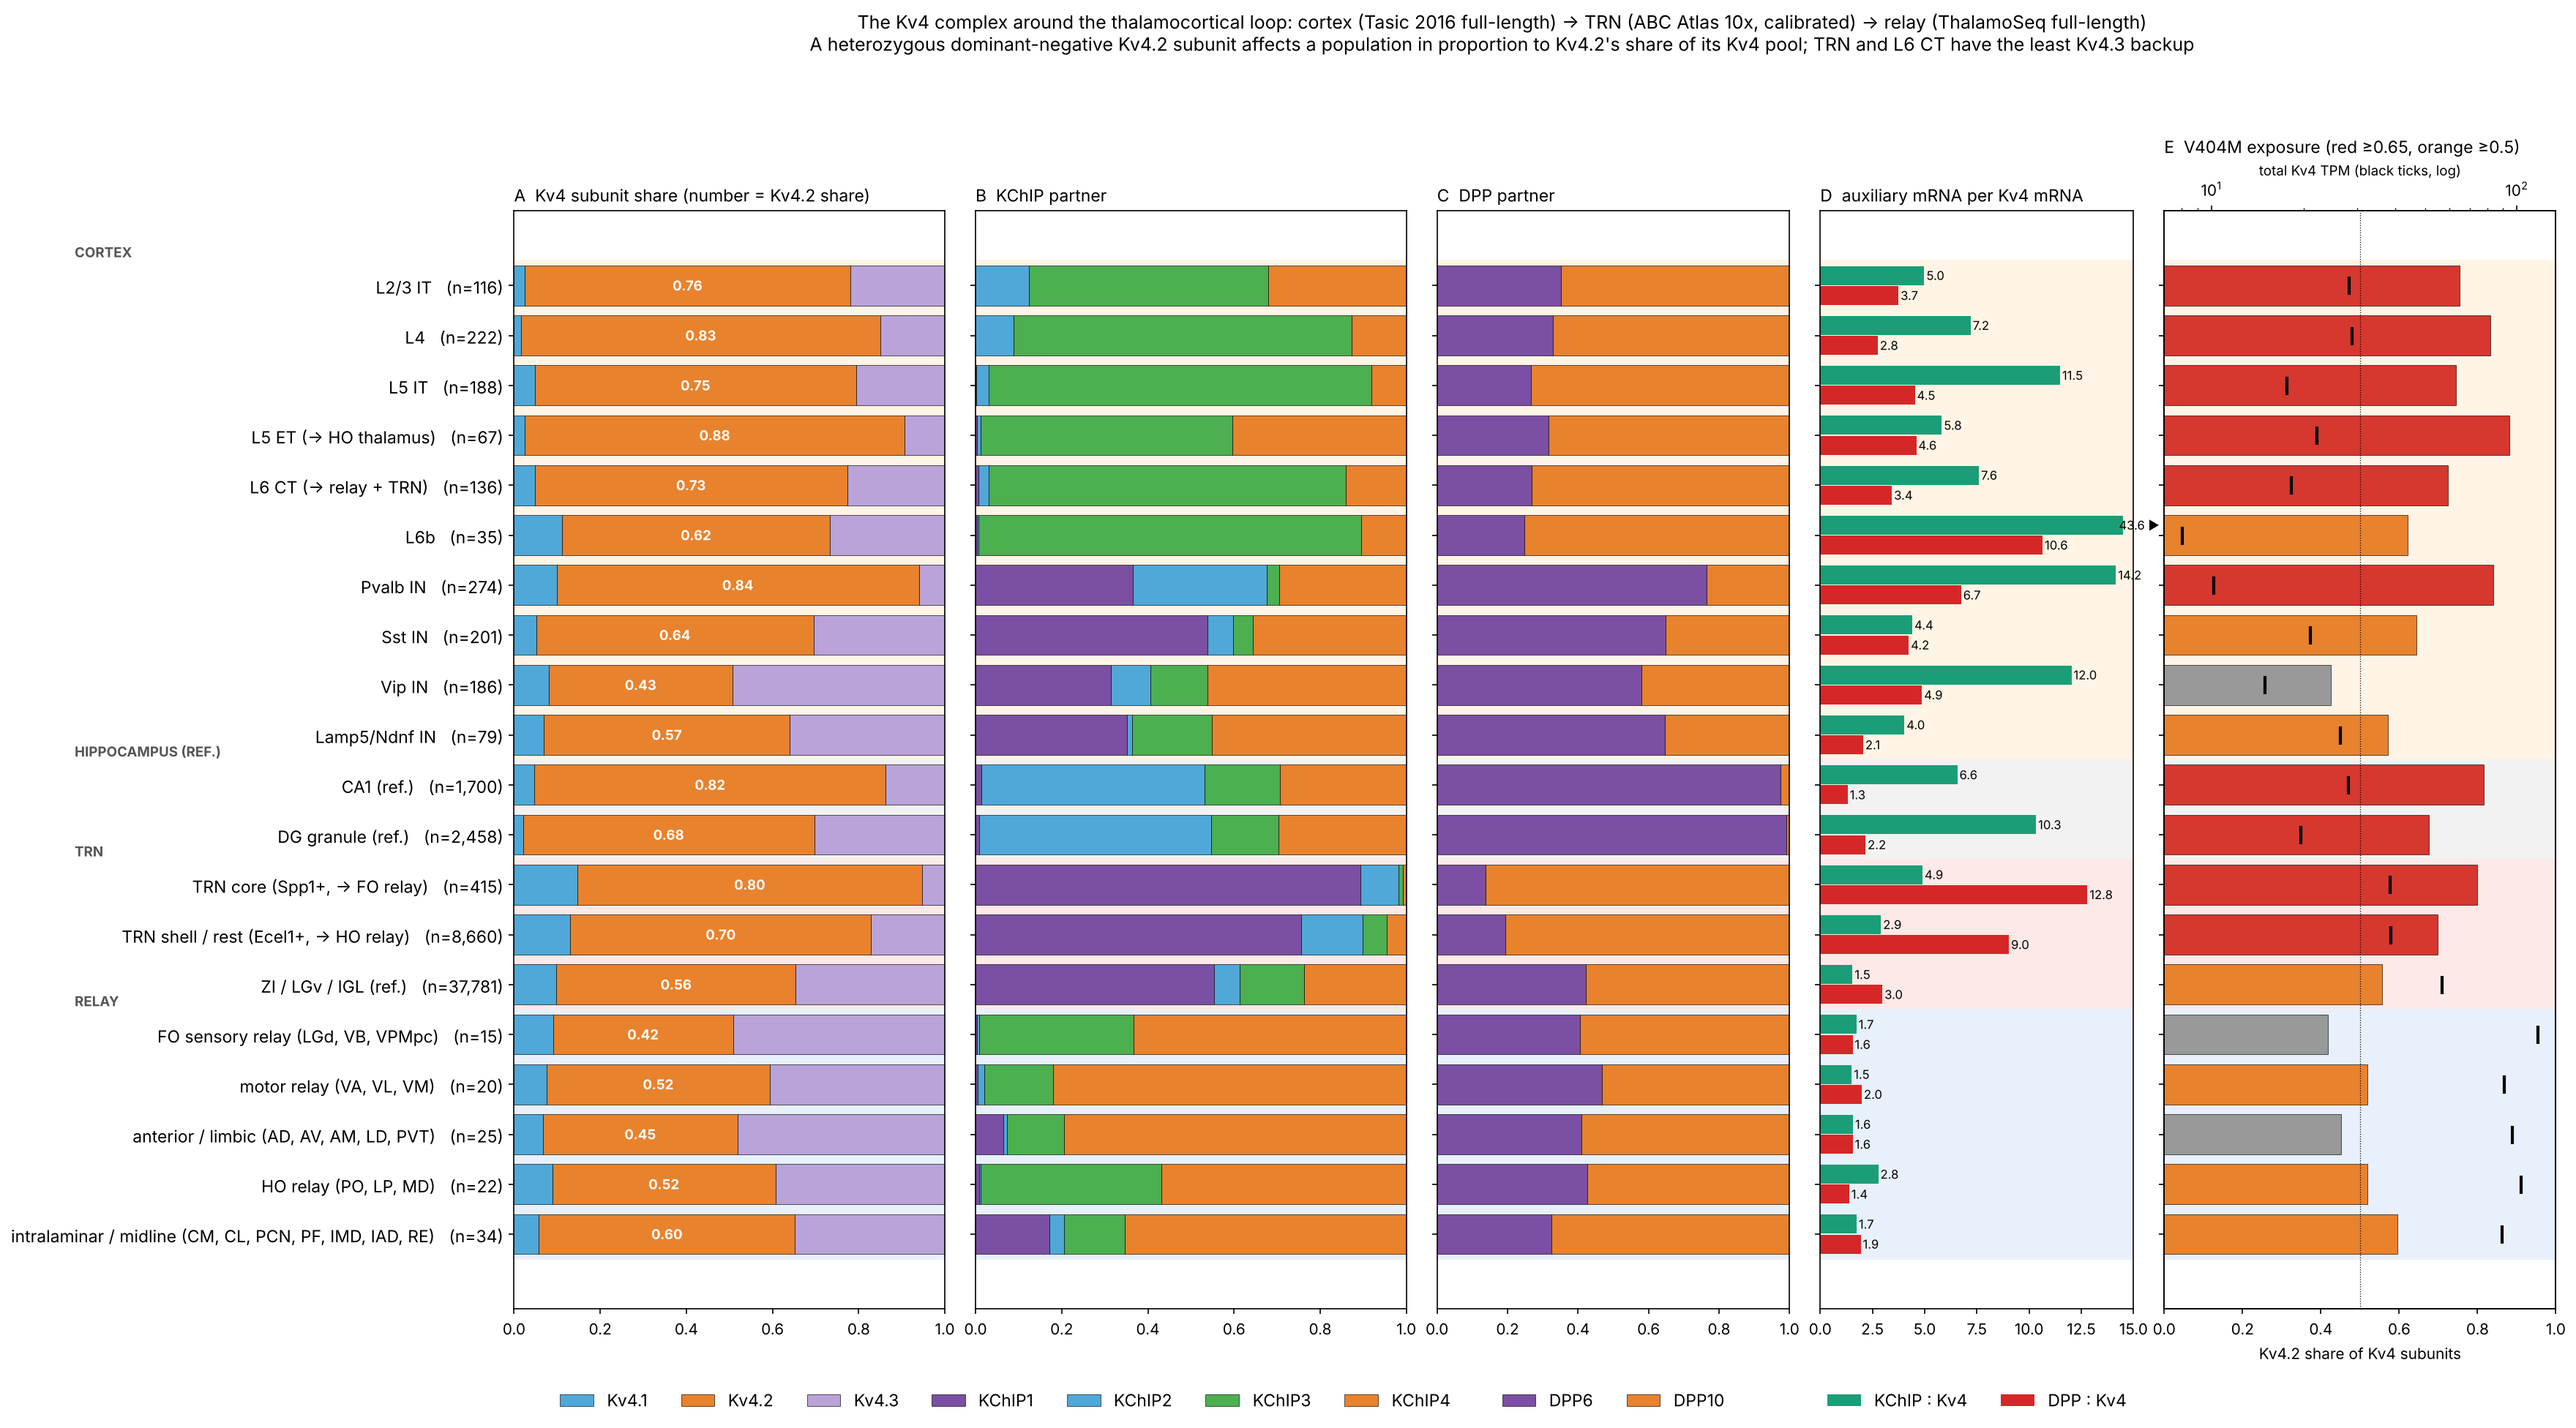
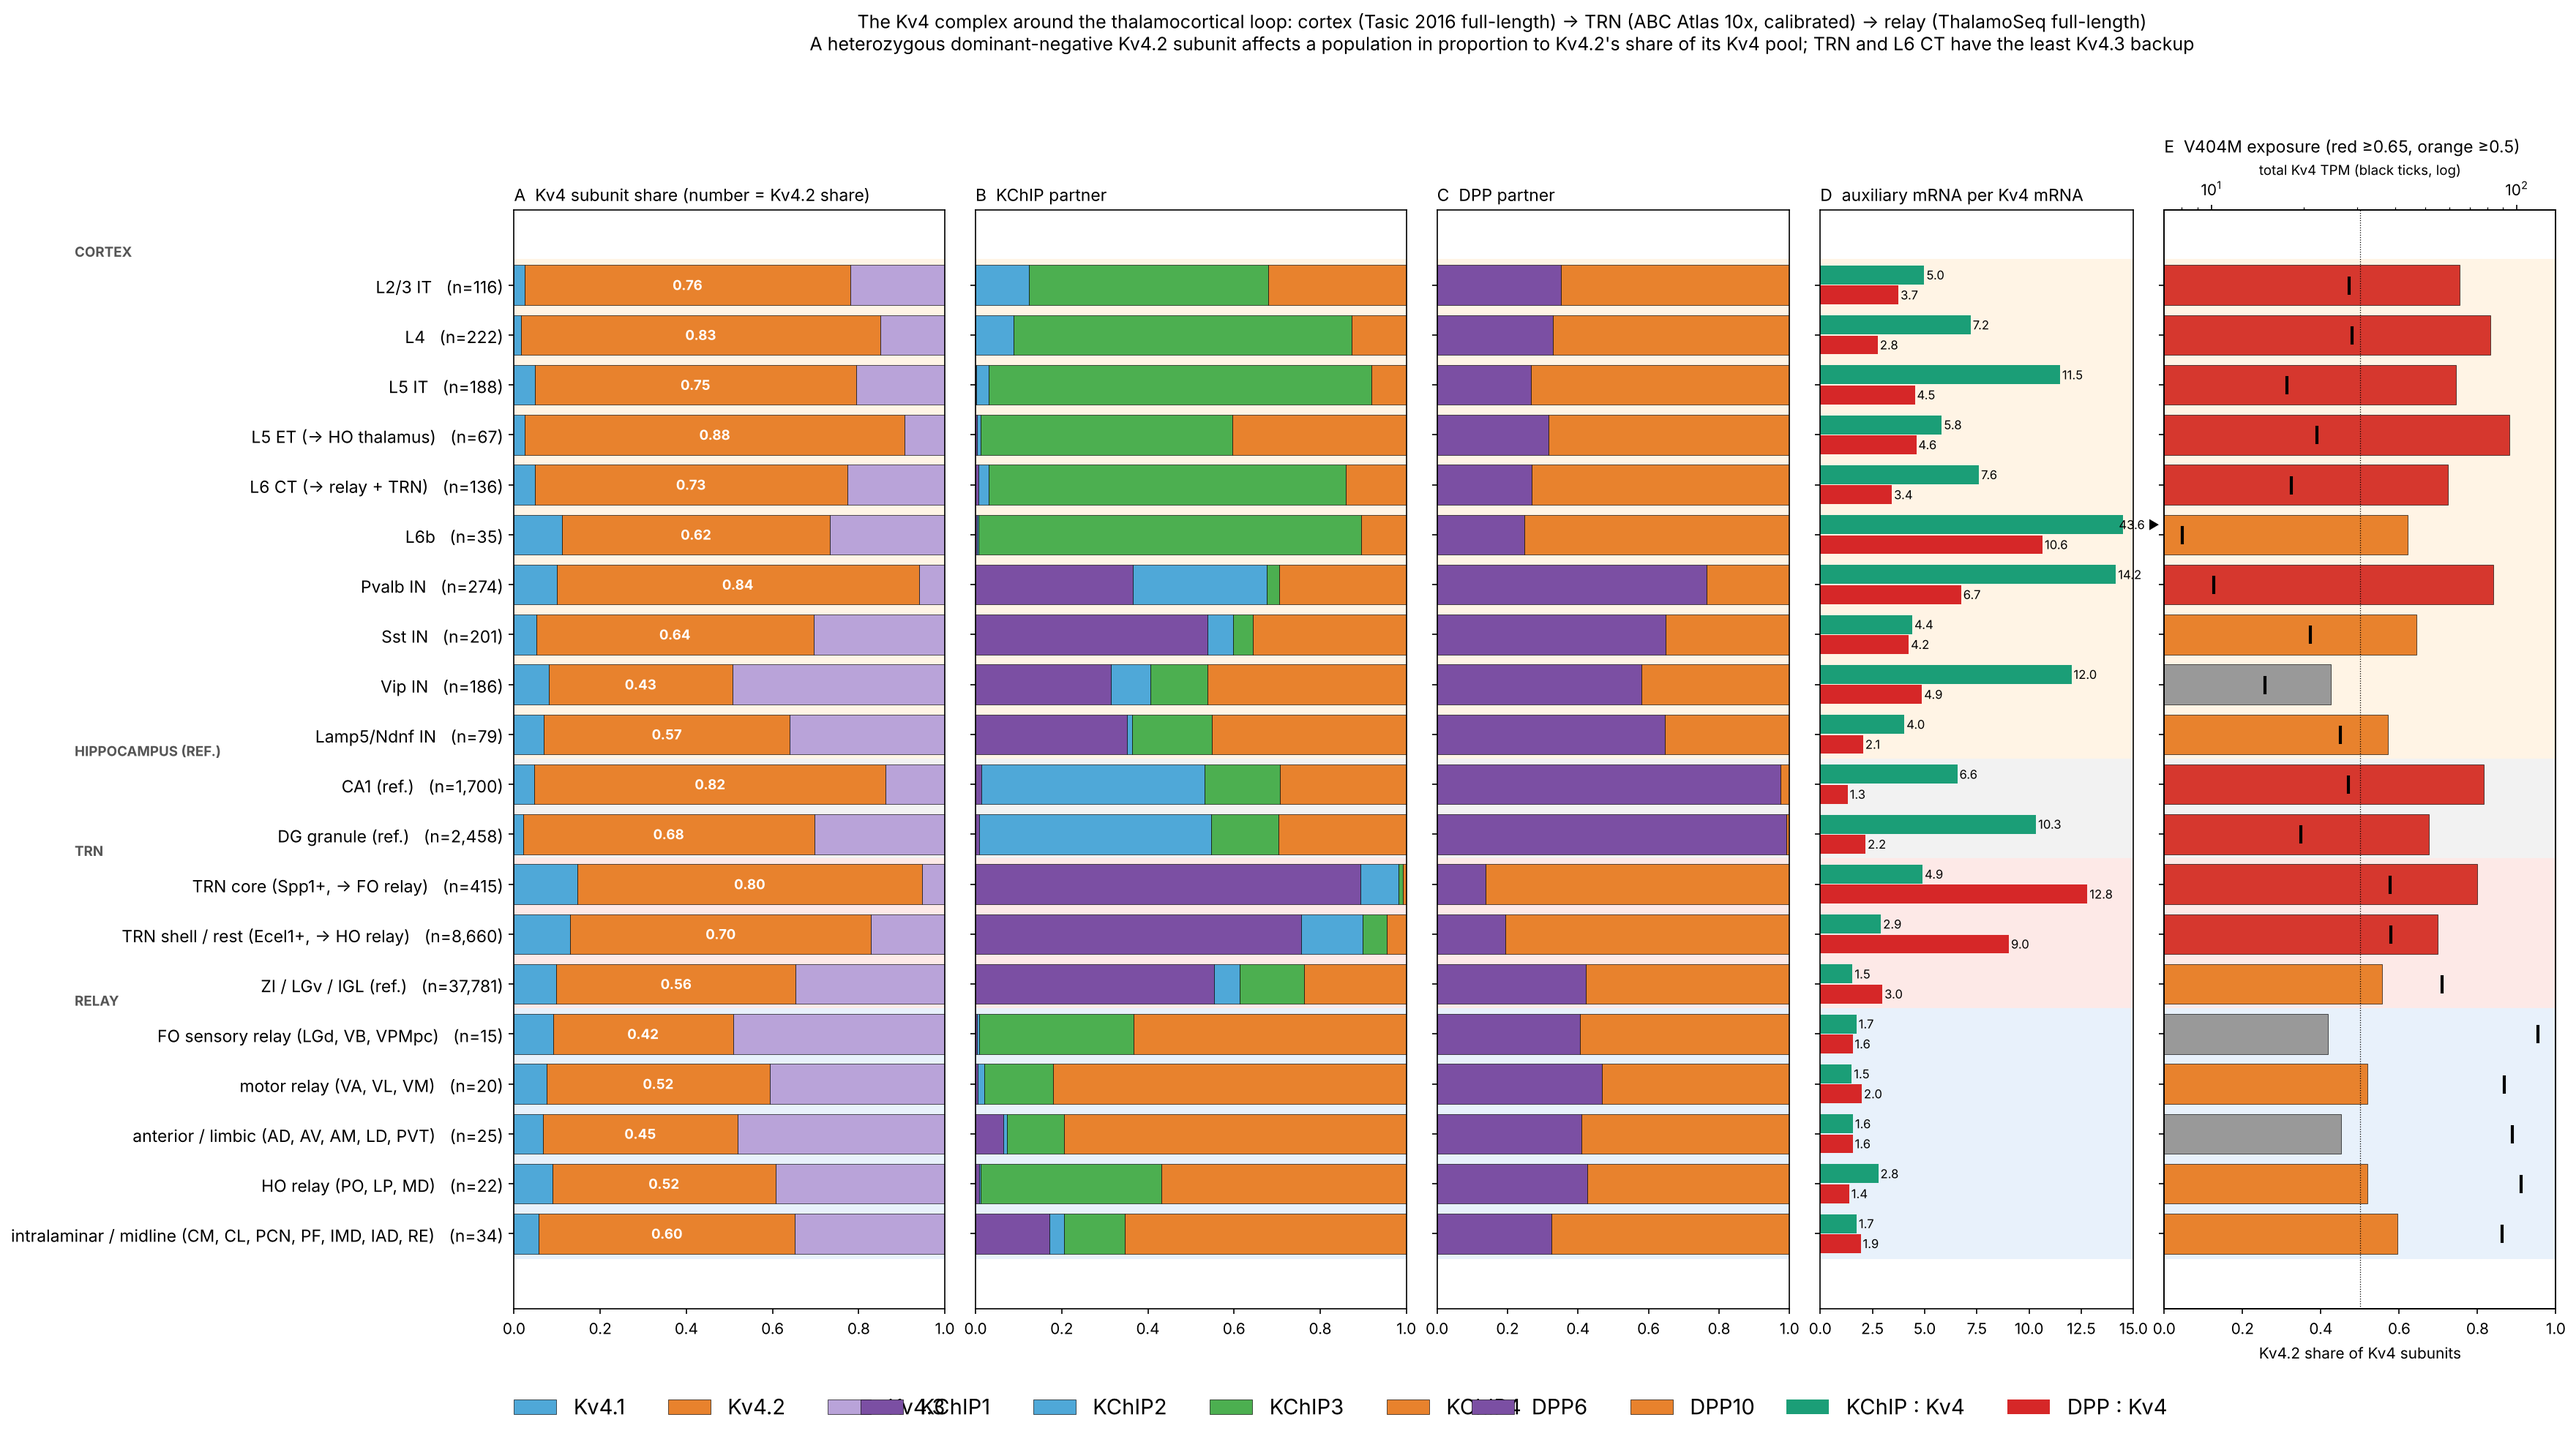
Loop figure: legend font 14
Claude-Session: https://claude.ai/code/session_01LyLqBU1JBtmoS9Pe1mdPxR

diff --git a/thalamus/loop_figure.py b/thalamus/loop_figure.py
@@ -86,24 +86,24 @@ for g, c, lab in [('Kcnd1', '#4FA8D8', 'Kv4.1'), ('Kcnd2', '#E8822D', 'Kv4.2'), 
 for i in range(n):
     ax.text(D.share_Kcnd2.iloc[i] / 2 + D.share_Kcnd1.iloc[i], i, f'{D.share_Kcnd2.iloc[i]:.2f}', ha='center', va='center', fontsize=9, color='w', fontweight='bold')
 ax.set_yticks(y); ax.set_yticklabels([f'{p}   (n={m:,})' for p, m in zip(D.population, D.n)], fontsize=11); ax.invert_yaxis(); ax.set_xlim(0, 1)
-ax.set_title('A  Kv4 subunit share (number = Kv4.2 share)', loc='left', fontsize=11); ax.legend(fontsize=11, frameon=False, loc='upper center', bbox_to_anchor=(0.5, -0.06), ncol=3)
+ax.set_title('A  Kv4 subunit share (number = Kv4.2 share)', loc='left', fontsize=11); ax.legend(fontsize=14, frameon=False, loc='upper center', bbox_to_anchor=(0.5, -0.06), ncol=3)
 ax = axes[1]; left = np.zeros(n)
 for g, c, lab in [('Kcnip1', '#7B4FA3', 'KChIP1'), ('Kcnip2', '#4FA8D8', 'KChIP2'), ('Kcnip3', '#4CAF50', 'KChIP3'), ('Kcnip4', '#E8822D', 'KChIP4')]:
     v = D[f'KChIP_{g}'].values; ax.barh(y, v, left=left, color=c, edgecolor='k', lw=0.3, label=lab); left += v
 ax.set_yticks(y); ax.set_yticklabels([]); ax.invert_yaxis(); ax.set_xlim(0, 1); ax.set_title('B  KChIP partner', loc='left', fontsize=11)
-ax.legend(fontsize=11, frameon=False, loc='upper center', bbox_to_anchor=(0.5, -0.06), ncol=4)
+ax.legend(fontsize=14, frameon=False, loc='upper center', bbox_to_anchor=(0.5, -0.06), ncol=4)
 ax = axes[2]; left = np.zeros(n)
 for g, c, lab in [('Dpp6', '#7B4FA3', 'DPP6'), ('Dpp10', '#E8822D', 'DPP10')]:
     v = D[f'DPP_{g}'].values; ax.barh(y, v, left=left, color=c, edgecolor='k', lw=0.3, label=lab); left += v
 ax.set_yticks(y); ax.set_yticklabels([]); ax.invert_yaxis(); ax.set_xlim(0, 1); ax.set_title('C  DPP partner', loc='left', fontsize=11)
-ax.legend(fontsize=11, frameon=False, loc='upper center', bbox_to_anchor=(0.5, -0.06), ncol=2)
+ax.legend(fontsize=14, frameon=False, loc='upper center', bbox_to_anchor=(0.5, -0.06), ncol=2)
 ax = axes[3]
 ax.barh(y - 0.2, D.KChIP_per_Kv4.clip(upper=14.5), 0.38, color='#1B9E77', label='KChIP : Kv4'); ax.barh(y + 0.2, D.DPP_per_Kv4, 0.38, color='#D62728', label='DPP : Kv4')
 for i in range(n):
     ax.text(min(D.KChIP_per_Kv4.iloc[i], 14.2) + 0.1, i - 0.2, f'{D.KChIP_per_Kv4.iloc[i]:.1f}' + (' ▶' if D.KChIP_per_Kv4.iloc[i] > 15 else ''), va='center', fontsize=8)
     ax.text(D.DPP_per_Kv4.iloc[i] + 0.1, i + 0.2, f'{D.DPP_per_Kv4.iloc[i]:.1f}', va='center', fontsize=8)
 ax.set_yticks(y); ax.set_yticklabels([]); ax.invert_yaxis(); ax.set_xlim(0, 15)
-ax.set_title('D  auxiliary mRNA per Kv4 mRNA', loc='left', fontsize=11); ax.legend(fontsize=11, frameon=False, loc='upper center', bbox_to_anchor=(0.5, -0.06), ncol=2)
+ax.set_title('D  auxiliary mRNA per Kv4 mRNA', loc='left', fontsize=11); ax.legend(fontsize=14, frameon=False, loc='upper center', bbox_to_anchor=(0.5, -0.06), ncol=2)
 ax = axes[4]
 cols = ['#D6372E' if e >= 0.65 else '#E8822D' if e >= 0.5 else '#999999' for e in D.exposure]
 ax.barh(y, D.exposure, color=cols, edgecolor='k', lw=0.3)
